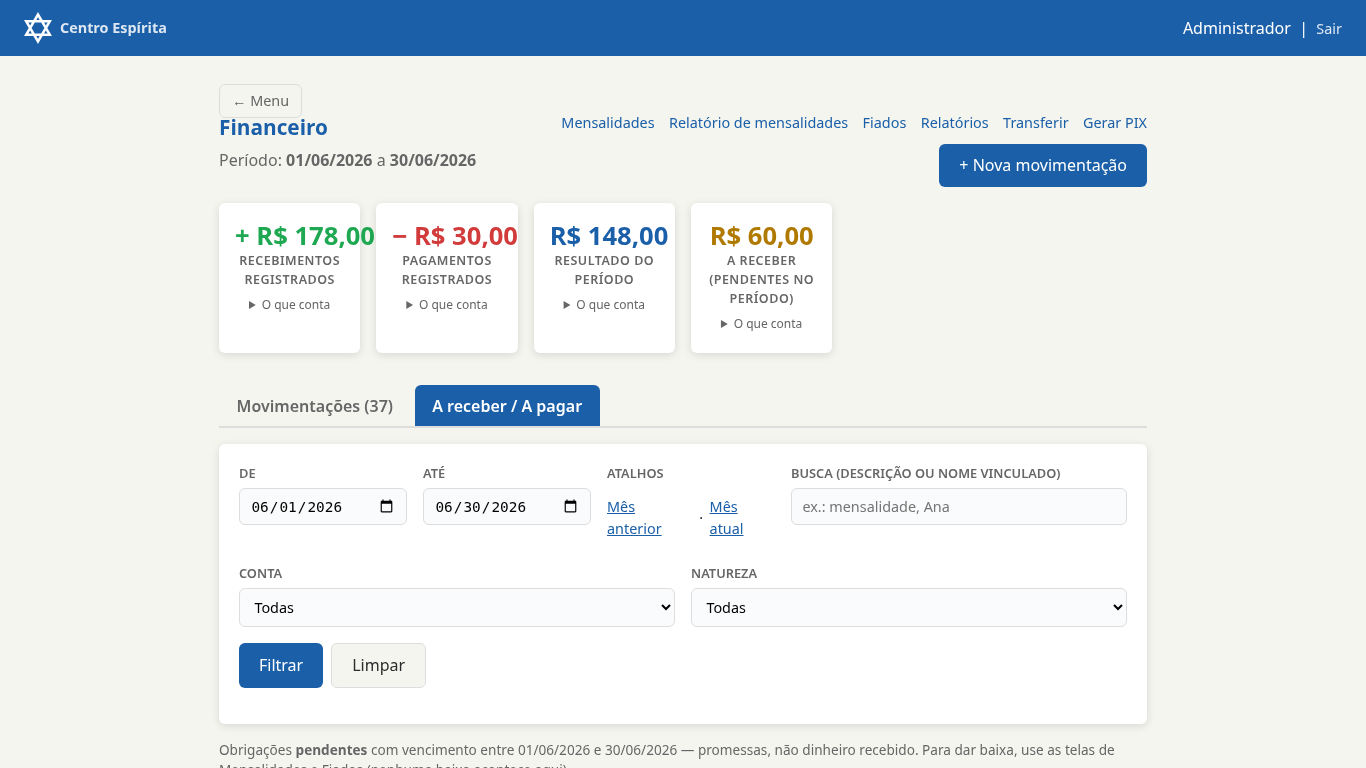
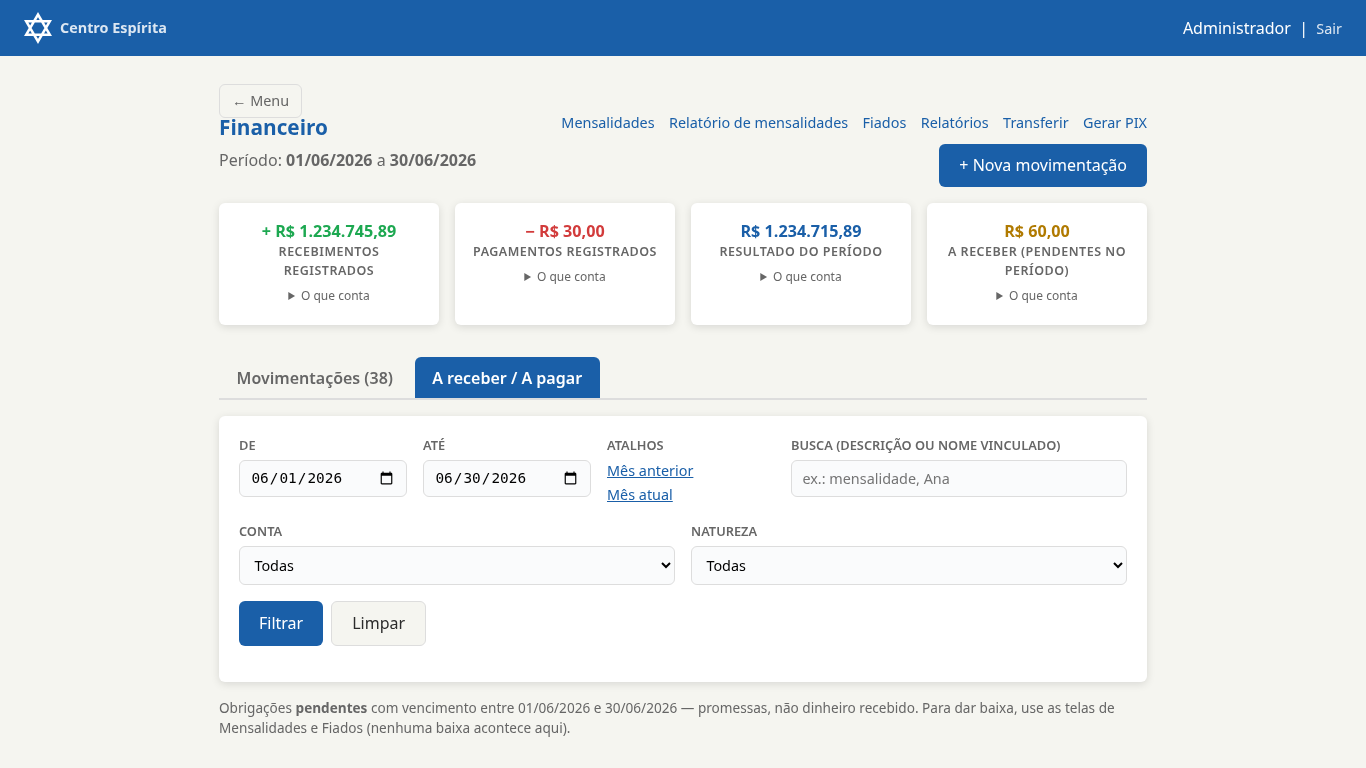
docs: TASK_011 — adendo da correção de homologação visual (CSS servido)
Causa raiz apurada com evidência (md5 do CSS servido = disco, rota nova
respondendo, ausência de Cache-Control/versionamento), mudanças, provas
(42 asserções no navegador com fixture de R$ 1.234.567,89, runner 17/17)
e aplicação no DEV com backup restaurado e validado, diff zero de fatos.

diff --git a/docs/tasks/done/TASK_011_VISAO_GERAL_FINANCEIRO_CLAREZA_E_NAVEGACAO.md b/docs/tasks/done/TASK_011_VISAO_GERAL_FINANCEIRO_CLAREZA_E_NAVEGACAO.md
@@ -1,6 +1,6 @@
 # TASK_011 — Reformular a Visão Geral do Financeiro
 
-Status: **executada e aplicada no DEV; pendente apenas a homologação visual do dono** (login do dono na 9000 seguindo o roteiro ao fim do relatório). Testes: contrato 51/51, navegador 34/34, runner completo 17/17 rc=0. Fatos do DEV preservados (diff zero antes/depois do restart, incluindo digital de conteúdo). Sem push; produção intocada.
+Status: **executada e aplicada no DEV; homologação visual do dono reaberta após a correção de CSS (§7)** (login do dono na 9000 seguindo o roteiro ao fim do relatório). Testes: contrato 51/51, navegador 42/42, runner completo 17/17 rc=0. Fatos do DEV preservados (diff zero antes/depois de cada restart, incluindo digital de conteúdo). Sem push; produção intocada.
 Referências: diagnóstico TASK_005, regras TASK_006–008, revisão TASK_009 e revalidação TASK_010 (encerrada com ressalvas).
 
 ## Objetivo e autorização
@@ -228,3 +228,89 @@ URL exata: **http://<host-dev>:9000/financeiro** (login próprio do dono).
 5. Abra a aba **A receber / A pagar**: obrigações pendentes com vencimento no
    período e, à parte, o fiado em aberto (fora do indicador). Nenhuma baixa
    acontece aqui — as ações levam às telas de Mensalidades e Fiados.
+
+---
+
+## 7. Adendo — Correção da homologação visual (CSS servido)
+
+A homologação encontrou divergência entre a tela na 9000 e as prévias aprovadas
+(abas, cores, espaçamento). Investigação com evidência, nesta ordem:
+
+1. **O CSS em disco e o CSS servido pela 9000 são idênticos byte a byte**
+   (`md5sum static/css/base.css` = `curl http://127.0.0.1:9000/static/css/base.css | md5sum`).
+2. **A árvore servida é a nova** — `GET /financeiro/lancamento/1` responde
+   303 (rota que só existe desde esta TASK_011), então não era código antigo no servidor.
+3. **`templates/base.html` referenciava `/static/css/base.css` sem versão** e o
+   `StaticFiles` envia apenas `ETag`/`Last-Modified`, nunca `Cache-Control`.
+   Sem instrução de revalidação, o navegador aplica *cache heurístico* e
+   continuou usando o `base.css` **anterior à TASK_011** — que não tem as
+   classes `fin-*`. As prévias foram tiradas em contextos Playwright novos, por
+   isso mostravam o CSS correto. **Causa raiz: cache do lado do cliente, não o
+   servidor nem os seletores.**
+4. Conferida também a ordem de carregamento: o bloco da TASK_011 é o último do
+   arquivo e não há conflito de especificidade com `.stat-label`/`.grade-cards`
+   (o que havia era compatível e já aparecia nas prévias aprovadas).
+
+### O que mudou
+
+- **Assets versionados** — global Jinja `asset_url(caminho)` em
+  `templates_config.py` gera `/static/<caminho>?v=<mtime>` (com `v=0` se o
+  arquivo não for legível). Aplicado nos 5 links de stylesheet do projeto
+  (`base.html`, `login.html`, `terminal/leitura.html`,
+  `trabalhadores/carteirinha.html`, `trabalhadores/carteirinhas_lote.html`).
+  Editar o CSS muda o `?v=` e o navegador busca o novo sem esperar a expiração
+  heurística — a divergência deixa de poder se repetir.
+- **Valores monetários grandes** — `.fin-cards .stat-valor` media 1,6 rem com
+  `white-space: nowrap` dentro de colunas de no mínimo 140 px: um
+  `R$ 1.234.567,89` estourava o cartão e gerava rolagem horizontal no celular.
+  Os cartões viram contêineres de consulta (`container-type: inline-size`) e a
+  fonte se ajusta à largura do cartão (`min(1.6rem, 8.6cqi)`; faixa
+  `clamp(1.1rem, 4.5vw, 1.6rem)` como reserva onde `cqi` não existir), com
+  grade `minmax(220px,1fr)`, duas colunas ≤768 px e coluna única ≤480 px. O
+  número nunca quebra linha nem é cortado.
+- **Extrato em larguras estreitas** — as tabelas do desktop ganharam o invólucro
+  `.fin-rolo` (`overflow-x: auto`): abaixo de ~860 px o extrato rola dentro de
+  si, e a página como um todo não ganha barra horizontal.
+- **Faixa "Movimento por conta"** (`.fin-contas`) e **atalhos de mês** (links em
+  coluna, sem o separador órfão) ajustados pelo mesmo critério.
+
+### Provas
+
+- Fixture nova de `R$ 1.234.567,89` na suíte de navegador (janela 2026-06): os
+  cartões passam a `+ R$ 1.234.745,89` / `− R$ 30,00` / `R$ 1.234.715,89` sobre
+  **38** linhas, com paginação `1–25 de 38` e `26–38 de 38`.
+- Asserções novas: o HTML servido referencia `css/base.css?v=` (anti-cache), o
+  valor grande aparece com ponto de milhar no celular, nenhum `.stat-valor`
+  estoura o próprio cartão (`scrollWidth > clientWidth`) e **N8** repete a
+  conferência em 1366/1024/820/768/412 px. Suíte: **42 asserções, 0 falhas**;
+  contrato continua **51/51**.
+- Runner completo depois da correção: **17/17 suítes rc=0**
+  (`docs/tasks/evidencias/TASK_011/runner_correcao_css.log`), DEV inalterado
+  durante a regressão (pessoas=678, checkins=2918 antes e depois). Evidências
+  `depois-*.png` re-capturadas com o valor grande nas fixtures.
+
+### Aplicação no DEV (9000)
+
+- Backup antes da mudança: `docs/tasks/backups/shambala_pre_task011_css_20261024_232935.sql.gz`,
[1 lines of base64/hex data omitted]
+  Restauração **validada** em `shambala_t011_restauracao_test` (banco selado,
+  descartado em seguida): os 11 agregados financeiros — incluindo a digital de
+  conteúdo `max_id|md5(linhas)` — e o `baseline_dev.py` saíram idênticos ao DEV
+  (`restauracao_validada.log`).
+- Baseline de fatos antes (`baseline_dev_antes2.txt` /
+  `baseline_financeiro_antes2.txt`) e depois (`*_depois2.txt`) do restart:
+  **diff zero**. Restart apenas do serviço da 9000 (mesmo comando uvicorn, PID
+  1729434 → 1869627) com ambiente limpo de variáveis de teste; log
+  `dev-startup-task011-css.log`.
+- Smoke sem credenciais: `GET /financeiro` → 303 `/login`;
+  `GET /financeiro/lancamento/1` → 303 `/login`; `md5` do CSS servido = `md5`
+  do arquivo em disco (`42d46ebb…`); o HTML de `/login` já traz
+  `href="/static/css/base.css?v=1792894836"` e a URL versionada responde 200.
+
+### Limitação que resta (declarada)
+
+O `?v=` só vale a partir **desta** subida: quem já estava com o CSS antigo em
+cache o usa até a primeira requisição à página já versionada — na prática, um
+recarregar simples (`Ctrl+Shift+R`) resolve e depois disso o versionamento
+cuida sozinho. Nenhum dado financeiro foi alterado em nenhuma etapa; nenhuma
+credencial foi criada, lida ou alterada.

diff --git a/SHAMBALA_CONTEXTO.md b/SHAMBALA_CONTEXTO.md
@@ -1040,7 +1040,7 @@ Expressão SQL `_ORDEM_PRIORIDADE` em `rotas/dia.py`:
 |---|---|
 | `main.py` | App FastAPI, lifespan, monta todas as rotas, filtro `data_br` |
 | `banco.py` | `conectar()`, `criar_tabelas()`, `_migrar()`, pool psycopg2, `gerar_agendamentos_plano()` |
-| `templates_config.py` | Instância única de `Jinja2Templates` |
+| `templates_config.py` | Instância única de `Jinja2Templates`; filtros `data_br`, `data_hora_br`, `moeda` e o global `asset_url('css/base.css')` → `/static/css/base.css?v=<mtime>` |
 | `backup.py` | Backup via `pg_dump` + envio SCP opcional |
 | `backup_pendrive.py` | Backup em pendrive/HD externo (montar, desmontar, pg_dump, histórico) |
 | `maiusculas.py` | Capitalização inteligente de nomes |
@@ -1098,6 +1098,11 @@ Expressão SQL `_ORDEM_PRIORIDADE` em `rotas/dia.py`:
   (instantes de auditoria: `data_hora_br` → `DD/MM/AAAA HH:MM:SS`, sem microssegundos)
 - **Telefones:** formato `(XX) XXXXX-XXXX`
 - **Ordem de rotas:** rotas com parâmetro dinâmico (`/{id}`) sempre **por último** no módulo — evita conflito com `/buscar`, `/novo` etc. (vale para `rotas/pessoas.py`, `rotas/caixa.py`, etc.)
+- **Folha de estilo:** todo `<link rel="stylesheet">` usa `{{ asset_url('css/<arquivo>.css') }}`
+  (global Jinja em `templates_config.py`), nunca `/static/css/…` direto. O `StaticFiles` não
+  envia `Cache-Control`; sem `?v=<mtime>` o navegador serve o CSS por cache heurístico e a
+  tela fica visualmente defasada em relação ao código (causa da divergência vista na
+  homologação da TASK_011).
 
 ---
 
